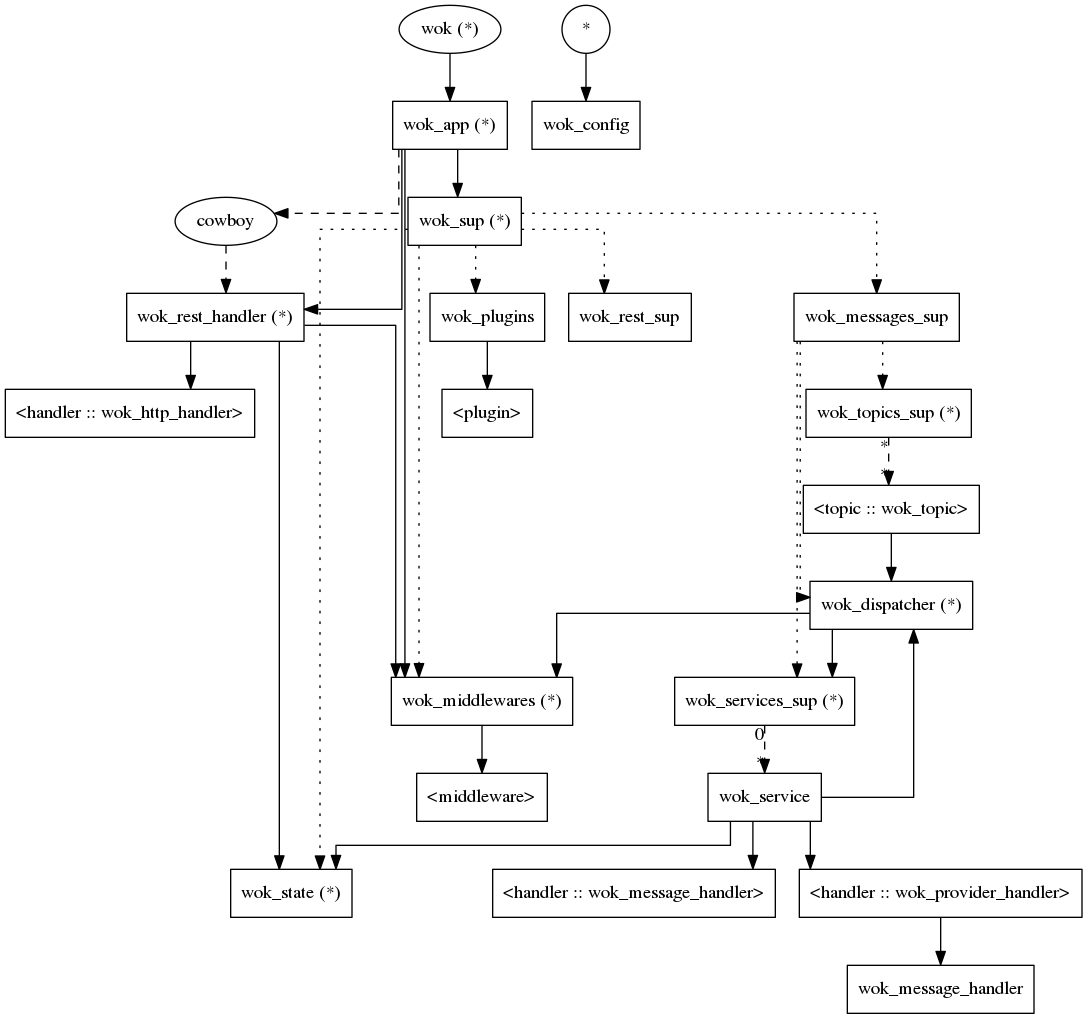
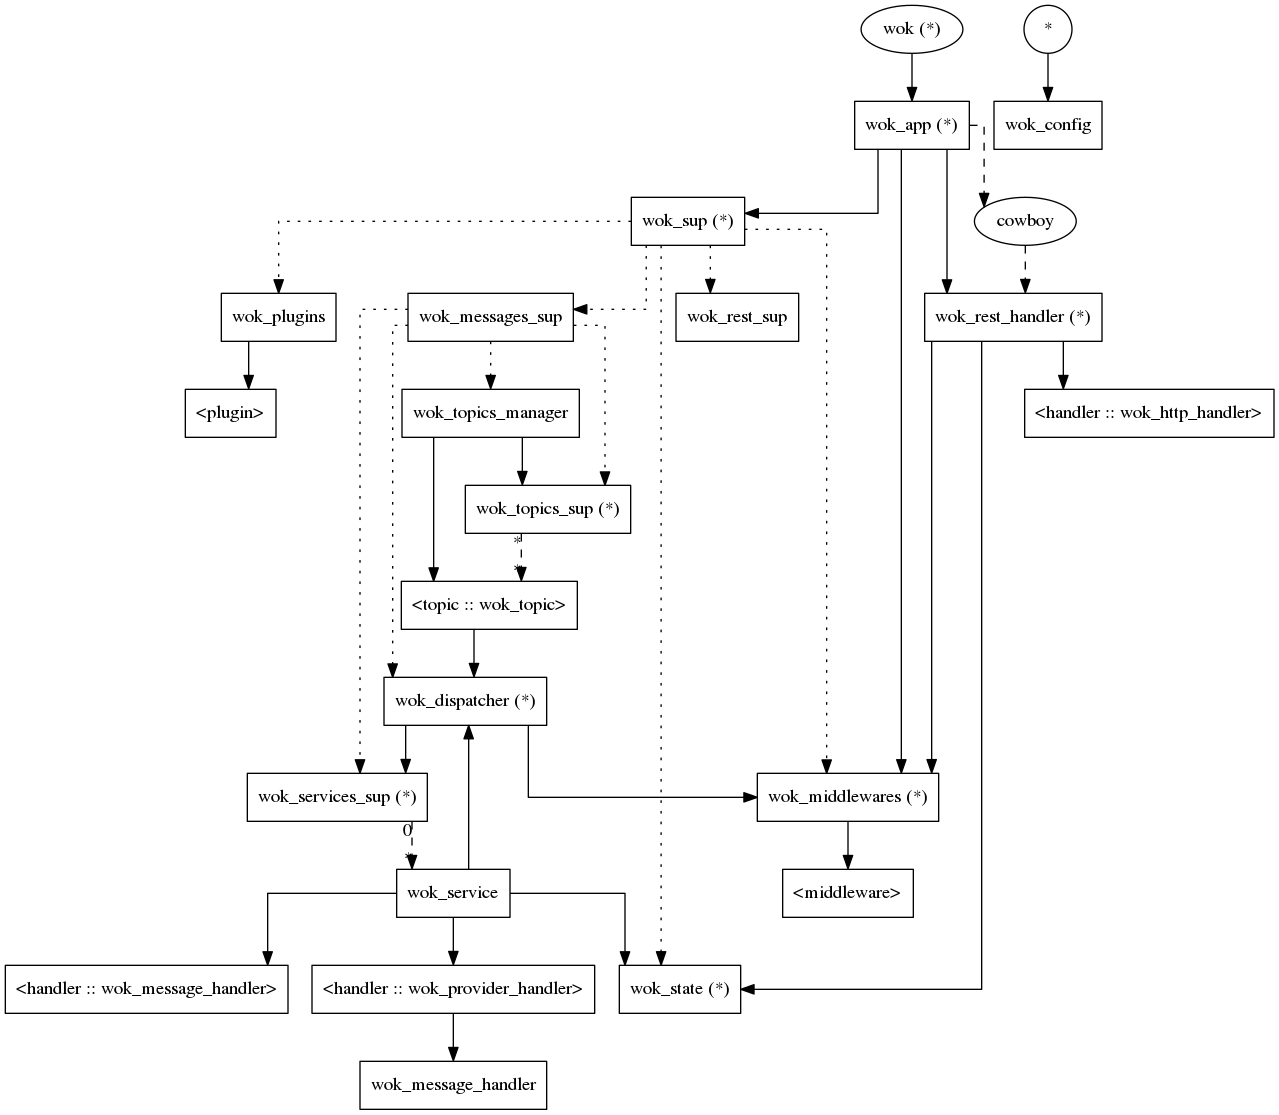
Add topic manager

diff --git a/README.md b/README.md
@@ -25,7 +25,7 @@ __Authors:__ Gregoire Lejeune ([`gregoire.lejeune@gmail.com`](mailto:gregoire.le
 
 2. Create your services and routes.
 
-3. Reference your services and routes in the `config` file (see [Configuration](https://gitlab.botsunit.com/msaas/wok/tree/master/doc/README.md#conf))
+3. Reference your services and routes in the `config` file (see [Configuration](https://gitlab.botsunit.com/msaas/wok/tree/topic_manager/doc/README.md#conf))
 
 3. Start your service :
 
@@ -50,9 +50,9 @@ application:ensure_all_started(wok).
 
 ### Configuration ###
 
-* `messages :: list()` : [Messages configuration](https://gitlab.botsunit.com/msaas/wok/tree/master/doc/README.md#messages_conf)
+* `messages :: list()` : [Messages configuration](https://gitlab.botsunit.com/msaas/wok/tree/topic_manager/doc/README.md#messages_conf)
 
-* `rest :: list()` : [REST configuration](https://gitlab.botsunit.com/msaas/wok/tree/master/doc/README.md#rest_conf)
+* `rest :: list()` : [REST configuration](https://gitlab.botsunit.com/msaas/wok/tree/topic_manager/doc/README.md#rest_conf)
 
 <a name="messages_conf"></a>
 
@@ -60,7 +60,7 @@ application:ensure_all_started(wok).
 
 * `handler :: atom()` : handler used to create and parse messages. See [wok_message_handler](https://gitlab.botsunit.com/msaas/wok_message_handler) for more informations.
 
-* `services :: list()` : [Services configuration](https://gitlab.botsunit.com/msaas/wok/tree/master/doc/README.md#services_conf)
+* `services :: list()` : [Services configuration](https://gitlab.botsunit.com/msaas/wok/tree/topic_manager/doc/README.md#services_conf)
 
 * `consumer_group :: binary()` : Name of the Kafka' consumer group
 
@@ -70,7 +70,7 @@ application:ensure_all_started(wok).
 
 * `max_services_fork :: integer()` : Maximum number of messages in parallel
 
-* `topics :: list()` : [Topics configuration](https://gitlab.botsunit.com/msaas/wok/tree/master/doc/README.md#topic_conf)
+* `topics :: list()` : [Topics configuration](https://gitlab.botsunit.com/msaas/wok/tree/topic_manager/doc/README.md#topic_conf)
 
 <a name="rest_conf"></a>
 
@@ -82,7 +82,7 @@ application:ensure_all_started(wok).
 
 * `max_conn :: integer()` : Max number of  connexions (default: `100`)
 
-* `routes :: list()` : [Routes configuration](https://gitlab.botsunit.com/msaas/wok/tree/master/doc/README.md#routes_conf)
+* `routes :: list()` : [Routes configuration](https://gitlab.botsunit.com/msaas/wok/tree/topic_manager/doc/README.md#routes_conf)
 
 <a name="services_conf"></a>
 
@@ -123,6 +123,23 @@ application:ensure_all_started(wok).
 ![](wok.call.png)
 
 
+## Start Kafka ##
+
+Update `docker-compose.yml` and change `KAFKA_ADVERTISED_HOST_NAME` to the IP of your `docker0` interface.
+
+```
+
+docker-compose up -d
+kafka-topics.sh --create --zookeeper localhost:2181 --replication-factor 3 --partitions 3 --topic test
+kafka-topics.sh --create --zookeeper localhost:2181 --replication-factor 3 --partitions 3 --topic repl
+kafka-topics.sh --create --zookeeper localhost:2181 --replication-factor 3 --partitions 3 --topic service
+kafka-topics.sh --create --zookeeper localhost:2181 --replication-factor 3 --partitions 3 --topic public
+...
+docker-compose stop
+
+```
+
+
 ### Licence ###
 
 Copyright (c) 2015 Grégoire Lejeune
@@ -138,8 +155,8 @@ Proprietary and confidential
 
 
 <table width="100%" border="0" summary="list of modules">
-<tr><td><a href="https://gitlab.botsunit.com/msaas/wok/tree/master/doc/wok.md" class="module">wok</a></td></tr>
-<tr><td><a href="https://gitlab.botsunit.com/msaas/wok/tree/master/doc/wok_http_handler.md" class="module">wok_http_handler</a></td></tr>
-<tr><td><a href="https://gitlab.botsunit.com/msaas/wok/tree/master/doc/wok_initializer.md" class="module">wok_initializer</a></td></tr>
-<tr><td><a href="https://gitlab.botsunit.com/msaas/wok/tree/master/doc/wok_provider_handler.md" class="module">wok_provider_handler</a></td></tr></table>
+<tr><td><a href="https://gitlab.botsunit.com/msaas/wok/tree/topic_manager/doc/wok.md" class="module">wok</a></td></tr>
+<tr><td><a href="https://gitlab.botsunit.com/msaas/wok/tree/topic_manager/doc/wok_http_handler.md" class="module">wok_http_handler</a></td></tr>
+<tr><td><a href="https://gitlab.botsunit.com/msaas/wok/tree/topic_manager/doc/wok_initializer.md" class="module">wok_initializer</a></td></tr>
+<tr><td><a href="https://gitlab.botsunit.com/msaas/wok/tree/topic_manager/doc/wok_provider_handler.md" class="module">wok_provider_handler</a></td></tr></table>
 

diff --git a/doc/README.md b/doc/README.md
@@ -123,6 +123,23 @@ application:ensure_all_started(wok).
 ![](wok.call.png)
 
 
+## Start Kafka ##
+
+Update `docker-compose.yml` and change `KAFKA_ADVERTISED_HOST_NAME` to the IP of your `docker0` interface.
+
+```
+
+docker-compose up -d
+kafka-topics.sh --create --zookeeper localhost:2181 --replication-factor 3 --partitions 3 --topic test
+kafka-topics.sh --create --zookeeper localhost:2181 --replication-factor 3 --partitions 3 --topic repl
+kafka-topics.sh --create --zookeeper localhost:2181 --replication-factor 3 --partitions 3 --topic service
+kafka-topics.sh --create --zookeeper localhost:2181 --replication-factor 3 --partitions 3 --topic public
+...
+docker-compose stop
+
+```
+
+
 ### Licence ###
 
 Copyright (c) 2015 Grégoire Lejeune
